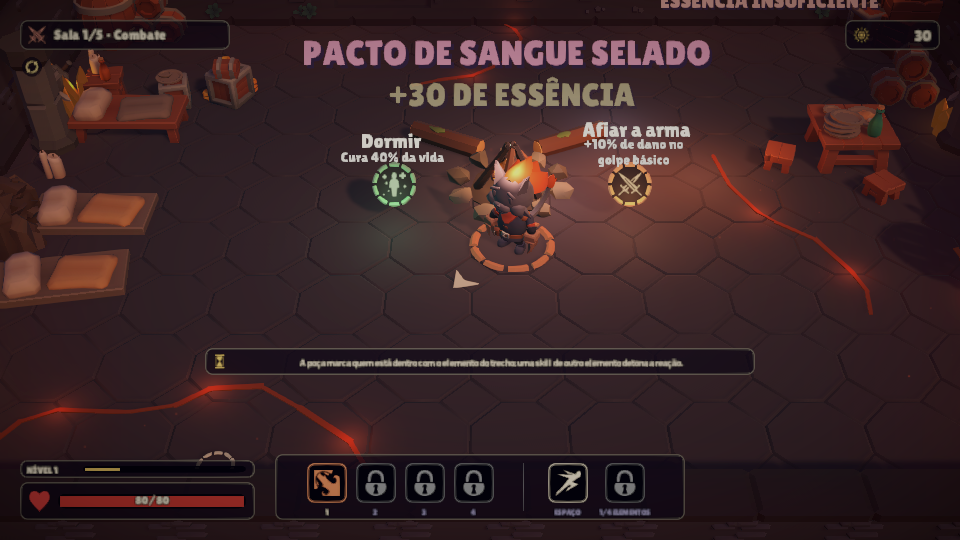
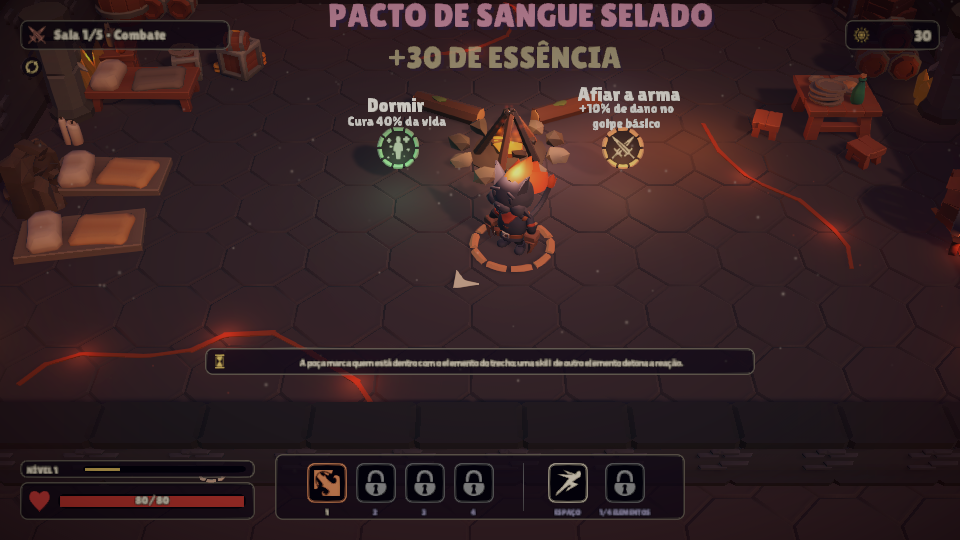
Progresso: seção da madrugada 17→18/11 (Descanso, resultado, placas, câmera, controle)

diff --git a/docs/progresso.html b/docs/progresso.html
@@ -35,6 +35,32 @@
   <h1>Quintessence 3D — Progresso</h1>
   <p class="sub">Entrega mais recente no topo. Escopo em <a href="ESCOPO.md">ESCOPO.md</a> · kanban em <a href="https://github.com/users/souzxxx/projects/4">GitHub Projects</a>. · <b>resumo da noite por tema em <a href="novidades.html">novidades.html</a></b>.</p>
 
+  <section id="s7-madrugada">
+    <h2>Madrugada 17→18/11: polimento das salas, do Descanso e dos textos</h2>
+    <div class="meta"><span class="tag who">Miguel</span><span class="tag who">Leonardo</span><span class="tag ok">550 testes de regra e 44 jogando passando; revisão por subagente sem bug confirmado</span></div>
+    <ul>
+      <li><b>Placas das salas:</b> nome, descrição e preço agora se empilham de baixo para cima. Antes, uma descrição de duas linhas caía sobre o preço na Loja e sobre o ícone no Mestre, no Pacto e no Santuário.</li>
+      <li><b>Descanso com escolha:</b> uma fogueira feita no Blender (pedras, lenha e brasa) com dois troncos para sentar, chama de partículas e luz quente que oscila. Junto ao fogo, o jogador escolhe <b>Dormir</b> (cura 40%) ou <b>Afiar a arma</b> (+10% no golpe básico até o fim da run). Antes, a sala só curava 30% sozinha.</li>
+      <li><b>Câmera (rubrica 1):</b> a câmera para 2 m além da borda sul (eram 3,5 m). No começo da sala aparece mais sala e menos chão de fora, e o herói continua acima da barra de skills.</li>
+      <li><b>Controle:</b> o treino, o aviso do escudo do chefe, a linha de teclas da pausa e o "fecha" do inventário mostram os botões do controle. Qualquer botão do controle (Start, Select, direcional, gatilhos) já troca os textos.</li>
+      <li><b>Inventário, mapa e opções:</b> a descrição da skill cabe no cartão, o mapa tem o fundo mais fechado e as Opções perderam o vão sob o título.</li>
+      <li><b>Resultado com epílogo:</b> na vitória, uma frase sobre o chefe que caiu (Guardião, Tecelã ou Rainha); na derrota, sobre o trecho onde a run terminou.</li>
+      <li><b>Ar das salas:</b> partículas miúdas por trecho: cinza caindo nos Salões, névoa subindo na Cripta, pólen no Jardim, brasas no Coração.</li>
+    </ul>
+    <div class="cols">
+      <div><h3>Descanso</h3><img src="img/s7_descanso.png" alt="Fogueira no meio do Descanso, com Dormir à esquerda e Afiar a arma à direita"></div>
+      <div><h3>Resultado</h3><img src="img/s6_resultado.png" alt="Você caiu, com a frase: Tão perto do Coração. Na próxima descida, ele é seu."></div>
+    </div>
+    <div class="cols">
+      <div><h3>Loja</h3><img src="img/s7_loja.png" alt="Loja com nome, descrição e preço empilhados sobre cada item"></div>
+      <div><h3>Mestre</h3><img src="img/s7_mestre.png" alt="Três bênçãos do Mestre com a descrição acima do ícone"></div>
+    </div>
+    <div class="cols">
+      <div><h3>Começo da sala</h3><img src="img/s7_camera.png" alt="Herói na entrada da sala com mais da sala à vista"></div>
+      <div><h3>Inventário</h3><img src="img/s7_inventario.png" alt="Inventário com a descrição da Maré dentro do cartão"></div>
+    </div>
+  </section>
+
   <section id="s6-estados">
     <h2>17/11, segunda leva: pausa, resultado, opções e ícone</h2>
     <div class="meta"><span class="tag who">Leonardo</span><span class="tag who">Enzo</span><span class="tag who">Miguel</span><span class="tag ok">teste de idas e voltas cobre recomeçar e o perfil gráfico</span></div>
